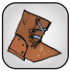
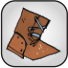
add roost img & crop some white space out of img

diff --git a/src/game/EyrieBoard.py b/src/game/EyrieBoard.py
@@ -64,7 +64,7 @@ class EyrieBoard(FactionBoard):
         img_size: Vector2 = Vector2(40)
 
         alpha = 200
-        img = pygame.image.load("../assets/images/marquise/sawmill.png")
+        img = pygame.image.load("../assets/images/eyrie/roost.png")
         img = pygame.transform.scale(img, img_size)
         img.set_alpha(alpha)
         alpha = 128
